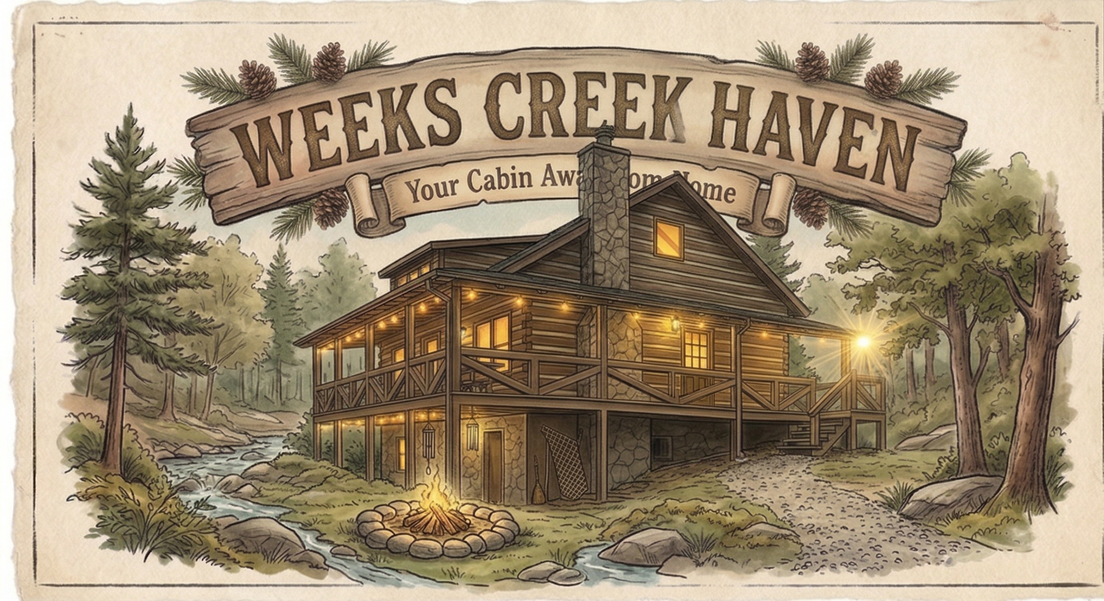
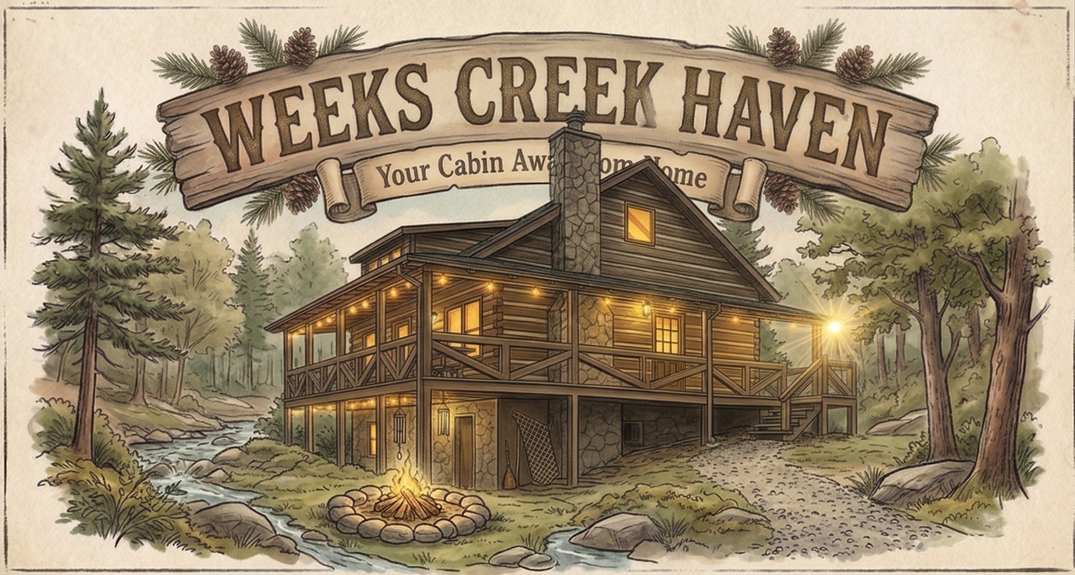
Image

diff --git a/index.html b/index.html
@@ -219,7 +219,7 @@
             </div>
         </div>
         <div class="mt-10 text-xs text-stone-600 pt-8 border-t border-stone-800 uppercase tracking-widest">
-            © 2026 Heather & Lance | Blue Ridge, Georgia       <img src="/webpic/Weeks_Creek_Haven_Social_Preview.jpg" alt="Cabin Away From Home!" class="rounded-lg shadow-2xl">
+            © 2026 Heather & Lance | Blue Ridge, Georgia       <img src="/webpic/Weeks_Creek_Haven_Social_Preview.png" alt="Cabin Away From Home!" width="100" class="rounded-lg shadow-2xl">
         </div>
     </footer>
 